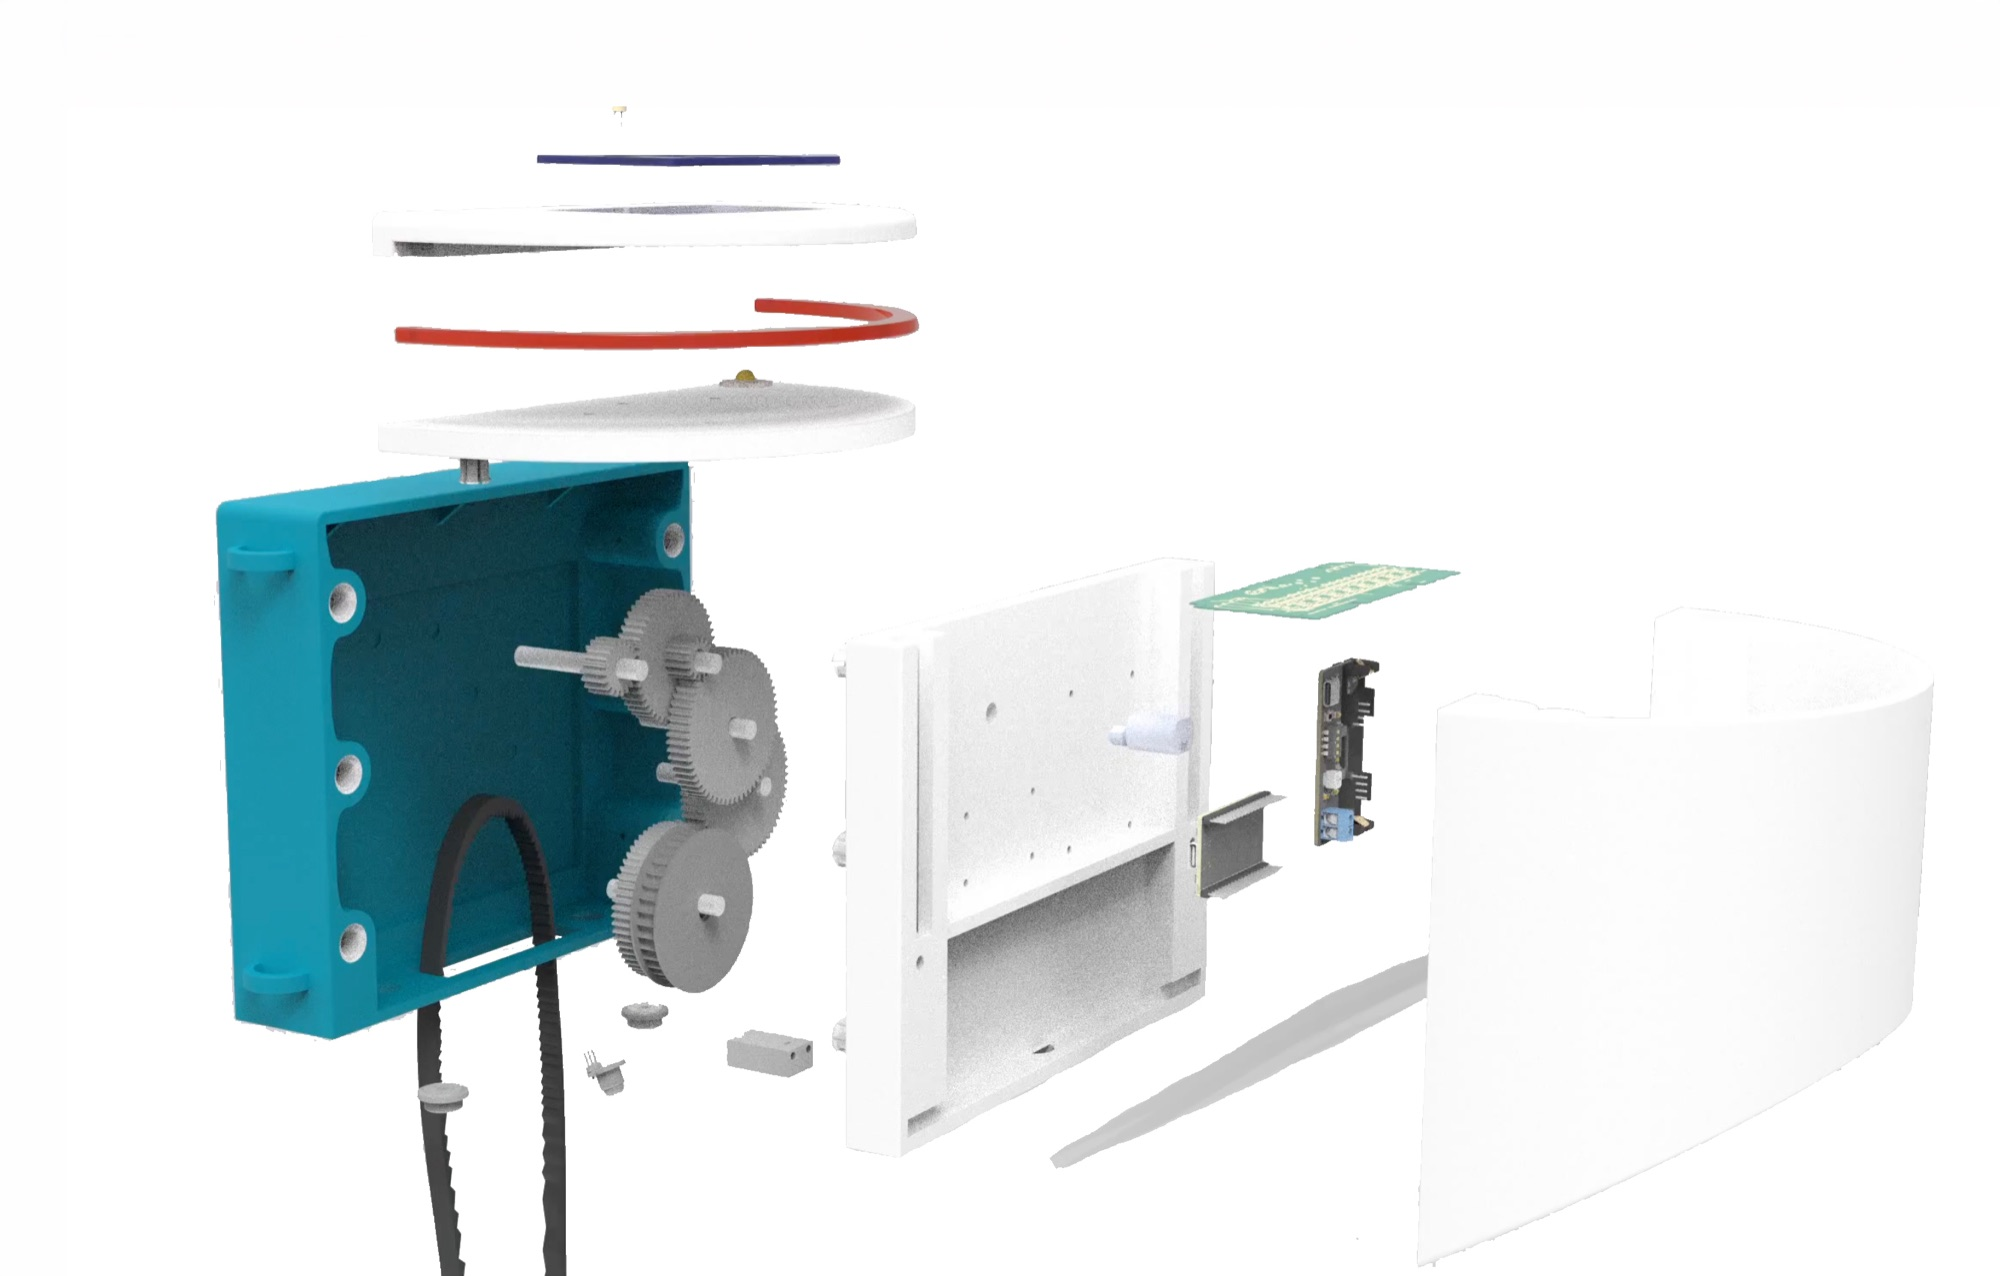
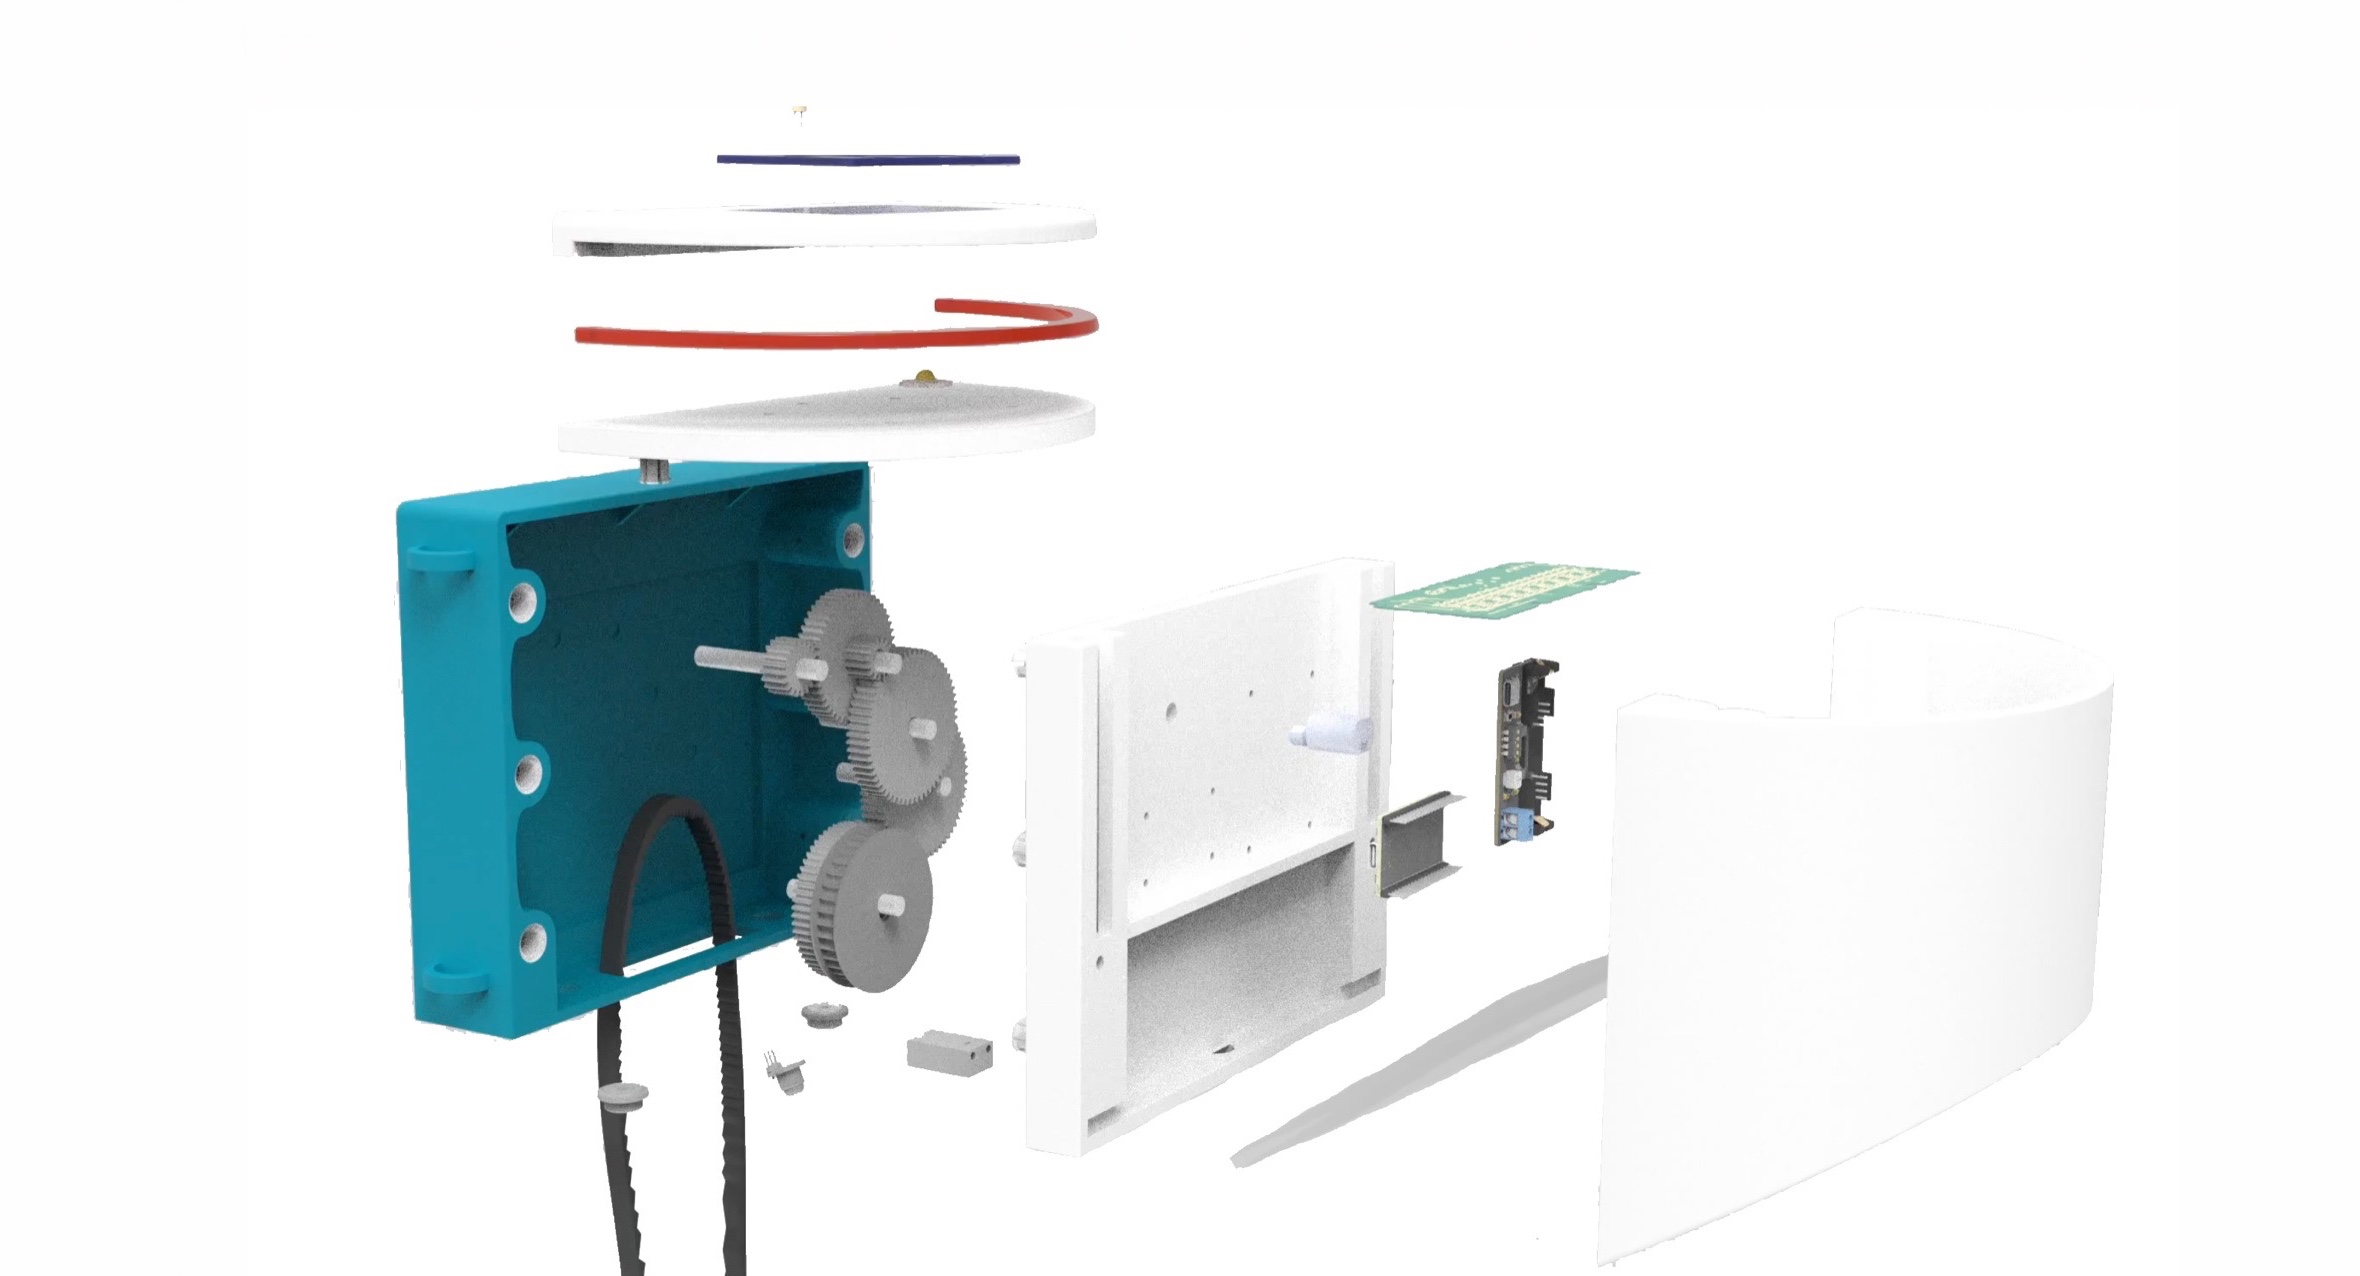
Show Byte cap, give LumaPath tile left breathing room, align About photo
- Byte render anchored to the top so the tooth cap is visible
- LumaPath render padded on the left and fitted (not cropped) in its tile
- About photo ends exactly at the line above Location, cropped from the top

diff --git a/index.html b/index.html
@@ -4,7 +4,7 @@
     <meta charset="UTF-8">
     <meta name="viewport" content="width=device-width, initial-scale=1.0">
     <title>Archie Midgley - Design Engineer</title>
-    <link rel="stylesheet" href="css/style.css?v=10">
+    <link rel="stylesheet" href="css/style.css?v=12">
     <link rel="preconnect" href="https://fonts.googleapis.com">
     <link rel="preconnect" href="https://fonts.gstatic.com" crossorigin>
     <link href="https://fonts.googleapis.com/css2?family=Bebas+Neue&family=Inter:wght@300;400;500;600;700&family=Space+Grotesk:wght@400;500;600;700&display=swap" rel="stylesheet">
@@ -93,19 +93,19 @@
                             <p>Currently in my final year of study, I am driven to create products where form, function, and manufacturing logic work as one cohesive system.</p>
                             <p>My work spans product design, industrial design, and medical engineering - always with a focus on simplicity and purpose.</p>
                         </div>
-                        <div class="about__details">
-                            <div class="about__detail">
-                                <span class="about__label">Location</span>
-                                <span class="about__value">London, United Kingdom</span>
-                            </div>
-                            <div class="about__detail">
-                                <span class="about__label">Discipline</span>
-                                <span class="about__value">Design Engineering (MEng)</span>
-                            </div>
-                            <div class="about__detail">
-                                <span class="about__label">Focus</span>
-                                <span class="about__value">Product &amp; Industrial Design</span>
-                            </div>
+                    </div>
+                    <div class="about__details">
+                        <div class="about__detail">
+                            <span class="about__label">Location</span>
+                            <span class="about__value">London, United Kingdom</span>
+                        </div>
+                        <div class="about__detail">
+                            <span class="about__label">Discipline</span>
+                            <span class="about__value">Design Engineering (MEng)</span>
+                        </div>
+                        <div class="about__detail">
+                            <span class="about__label">Focus</span>
+                            <span class="about__value">Product &amp; Industrial Design</span>
                         </div>
                     </div>
                 </div>
@@ -225,10 +225,10 @@
                 </div>
                 <div class="projects__grid">
 
-                    <a href="project.html?id=1" class="project__card" data-cursor="View">
+                    <a href="project.html?id=1" class="project__card project__card--fit" data-cursor="View">
                         <div class="project__inner">
                             <div class="project__image-wrapper">
-                                <img src="images/project-01.jpg" data-dark-src="images/project-01-dark.jpg" alt="Project 1" class="project__image" onerror="this.parentElement.classList.add('placeholder')">
+                                <img src="images/project-01.jpg?v=2" data-dark-src="images/project-01-dark.jpg?v=2" alt="Project 1" class="project__image" onerror="this.parentElement.classList.add('placeholder')">
                                 <div class="project__image-placeholder"><span>Project Image</span></div>
                             </div>
                             <div class="project__glare" aria-hidden="true"></div>

diff --git a/css/style.css b/css/style.css
@@ -2092,3 +2092,60 @@ body.dark .cursor--label {
         right: var(--space-sm);
     }
 }
+
+/* ============================================
+   ABOUT: photo ends exactly at the line above Location
+   The details sit in their own grid row, so the photo (row 1) stretches to
+   the height of the headline + bio and is cropped from the top.
+   ============================================ */
+@media (min-width: 769px) {
+    .about__grid {
+        row-gap: 0;
+    }
+
+    .about__portrait {
+        grid-column: 1;
+        grid-row: 1;
+        height: 100%;
+    }
+
+    .about__content {
+        grid-column: 2;
+        grid-row: 1;
+    }
+
+    .about__details {
+        grid-column: 2;
+        grid-row: 2;
+        margin-top: 0;
+    }
+
+    .about__image-wrapper {
+        aspect-ratio: auto;
+        height: 100%;
+        min-height: 320px;
+    }
+
+    /* Out of flow, so the photo never sets the row height - the text does */
+    .about__image {
+        position: absolute;
+        inset: 0;
+        object-position: center 75%;
+    }
+}
+
+/* LumaPath tile: show the whole render (shifted right with white space on
+   the left) instead of cropping it; the tile matches the render's plain
+   background, so the edges are invisible. */
+.project__card--fit .project__image-wrapper {
+    background: #FEFEFE;
+}
+
+body.dark .project__card--fit .project__image-wrapper {
+    background: #000000;
+}
+
+.project__card--fit .project__inner .project__image {
+    object-fit: contain;
+    object-position: right center;
+}

diff --git a/project.html b/project.html
@@ -4,7 +4,7 @@
     <meta charset="UTF-8">
     <meta name="viewport" content="width=device-width, initial-scale=1.0">
     <title>Project - Archie Midgley</title>
-    <link rel="stylesheet" href="css/style.css?v=10">
+    <link rel="stylesheet" href="css/style.css?v=12">
     <link rel="preconnect" href="https://fonts.googleapis.com">
     <link rel="preconnect" href="https://fonts.gstatic.com" crossorigin>
     <link href="https://fonts.googleapis.com/css2?family=Bebas+Neue&family=Inter:wght@300;400;500;600;700&family=Space+Grotesk:wght@400;500;600;700&display=swap" rel="stylesheet">
@@ -186,7 +186,7 @@
     </div>
 
     <script src="js/cursor.js?v=5"></script>
-    <script src="js/project.js?v=5"></script>
+    <script src="js/project.js?v=6"></script>
     <script src="js/magnetic.js?v=1"></script>
 </body>
 </html>

diff --git a/js/project.js b/js/project.js
@@ -34,7 +34,8 @@
             heroImage: 'images/project-02-hero.jpg',
             images: ['images/project-02-detail-1.jpg', 'images/project-02-detail-2.jpg', 'images/project-02-detail-3.jpg', 'images/project-02-detail-4.jpg', 'images/project-02-detail-5.jpg'],
             portfolioLink: '',
-            captions: ['Final Product Render', 'Layered Fabrication', 'Intraoral Scanning Procedure', 'Thermal Comfort Simulation', 'App for Biometric Tracking Overview']
+            captions: ['Final Product Render', 'Layered Fabrication', 'Intraoral Scanning Procedure', 'Thermal Comfort Simulation', 'App for Biometric Tracking Overview'],
+            imagePositions: ['center top', '', '', '', '']
         },
         {
             id: 4,

diff --git a/experience.html b/experience.html
@@ -4,7 +4,7 @@
     <meta charset="UTF-8">
     <meta name="viewport" content="width=device-width, initial-scale=1.0">
     <title>Experience - Archie Midgley</title>
-    <link rel="stylesheet" href="css/style.css?v=10">
+    <link rel="stylesheet" href="css/style.css?v=12">
     <link rel="preconnect" href="https://fonts.googleapis.com">
     <link rel="preconnect" href="https://fonts.gstatic.com" crossorigin>
     <link href="https://fonts.googleapis.com/css2?family=Bebas+Neue&family=Inter:wght@300;400;500;600;700&family=Space+Grotesk:wght@400;500;600;700&display=swap" rel="stylesheet">
